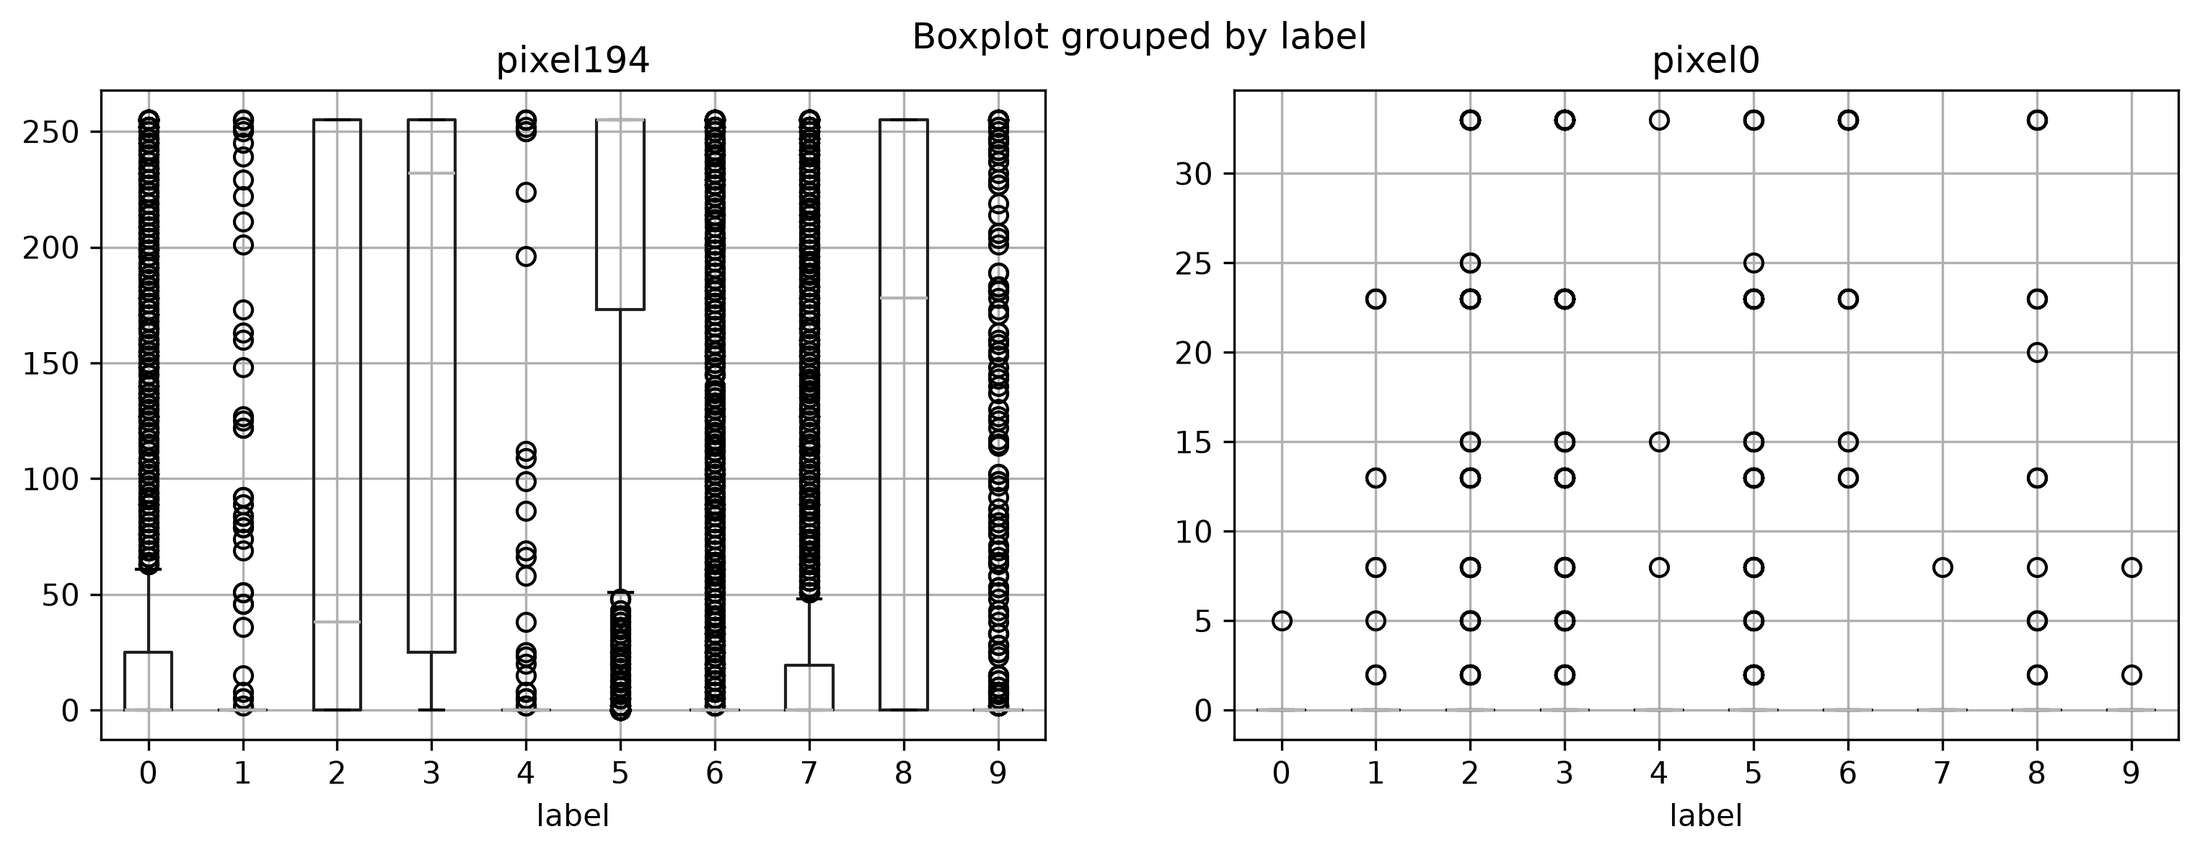
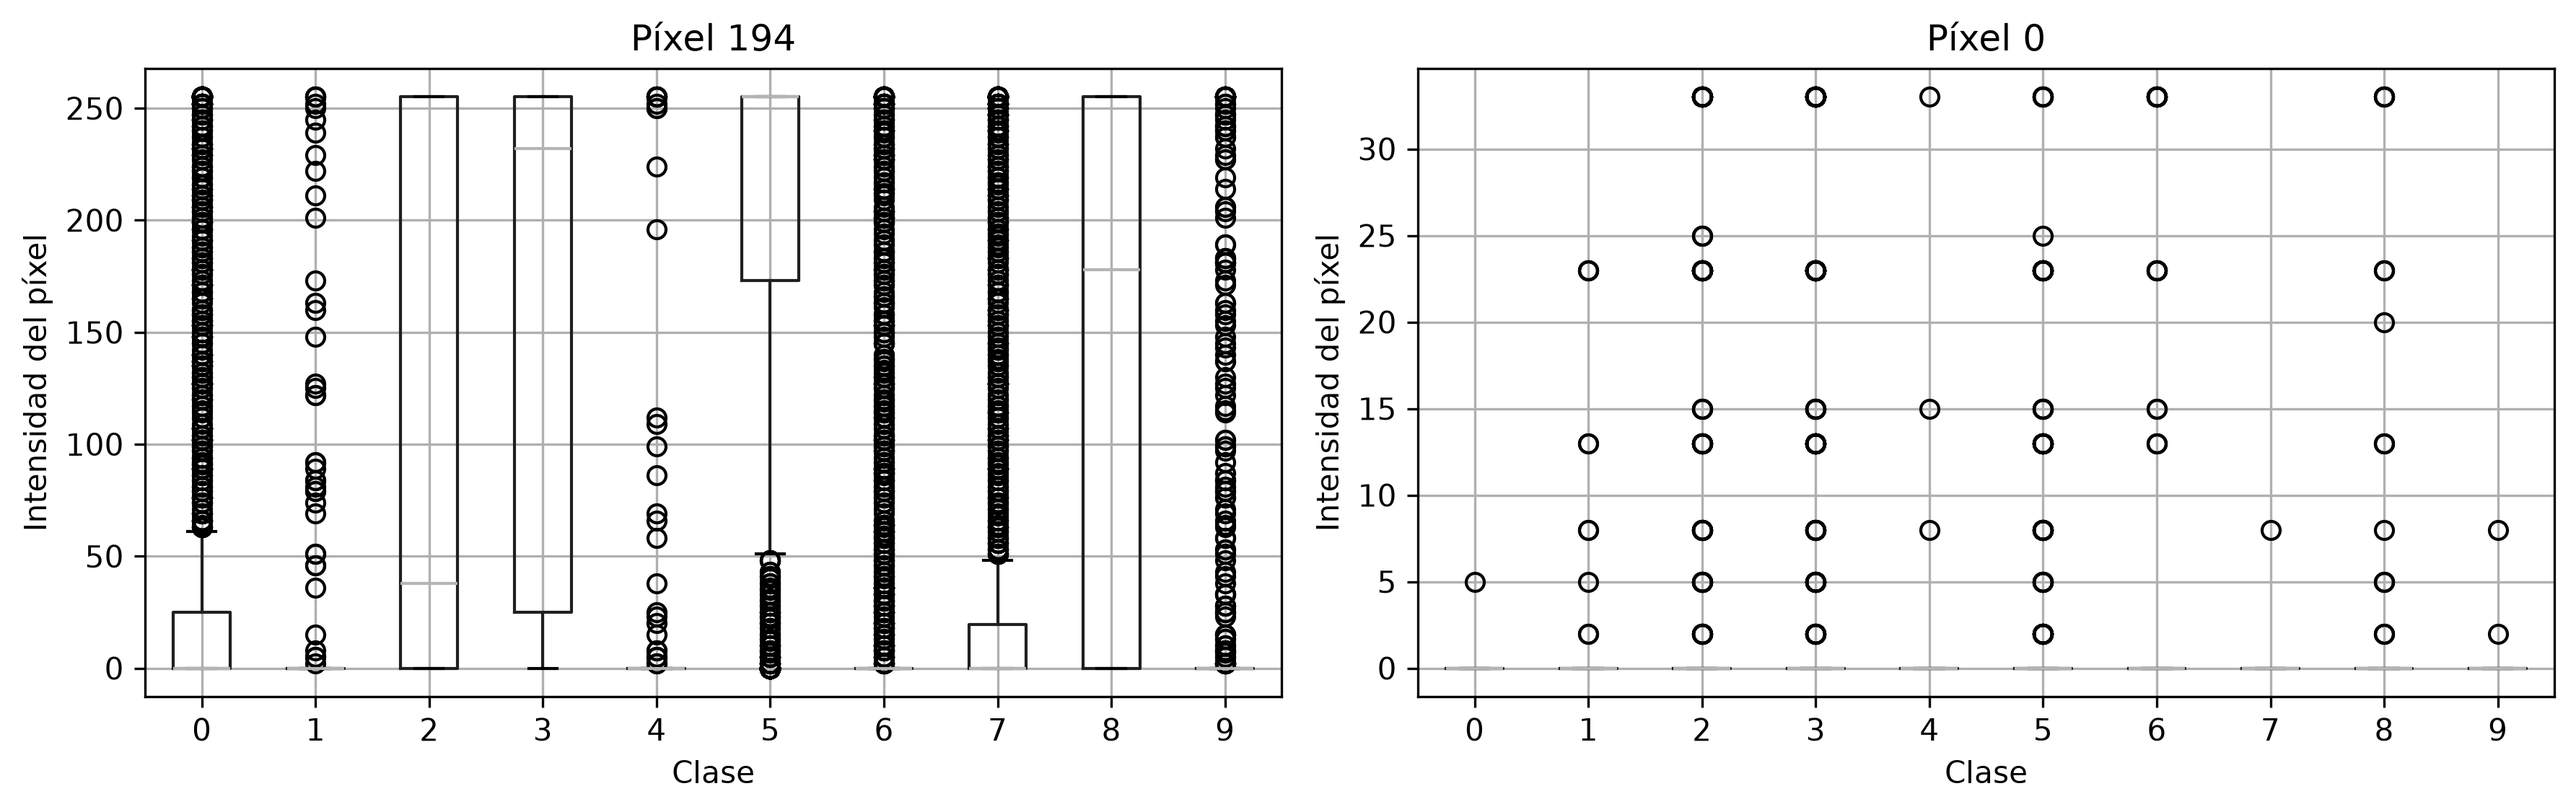
Arreglo una cosita del grafico 3

Changed region(s): [[0.0, 0.0311, 0.9967, 0.9325], [0.7475, 0.9325, 0.8098, 0.9636], [0.2492, 0.9325, 0.3115, 0.9636]]

diff --git a/TP02-Normalizados.py b/TP02-Normalizados.py
@@ -269,12 +269,20 @@ plt.show()
 print("Constantes:", (pix.nunique() <= 1).sum()) # =0, ningun pixel vale lo mismo en todas las imagenes
 print("Desvío < 10:", (pix.std() < 10).sum()) # = 8 se mantienen constantes, de 784 pixeles representa el 1%
 
-# Gráfico 3: boxplot de un píxel relevante vs uno irrelevante, por clase
+# Gráfico 3: comparación de píxeles por clase
 fig, axes = plt.subplots(1, 2, figsize=(12, 4))
 imagenes.boxplot(column="pixel194", by="label", ax=axes[0])
 imagenes.boxplot(column="pixel0", by="label", ax=axes[1])
+axes[0].set_title("Píxel 194")
+axes[1].set_title("Píxel 0")
+for ax in axes:
+    ax.set_xlabel("Clase")
+    ax.set_ylabel("Intensidad del píxel")
+fig.suptitle("")
+plt.tight_layout()
 fig.savefig("graficos/comparacion_pixeles.png", dpi=300, bbox_inches="tight")
 plt.show()
+
 
 # Conclusión final:(1.A)
 # Casi todos los atributos aportan información, solo una porción muy chica(8 pixeles, en las esquinas) es practicamente constante y descartable sin pérdida.
